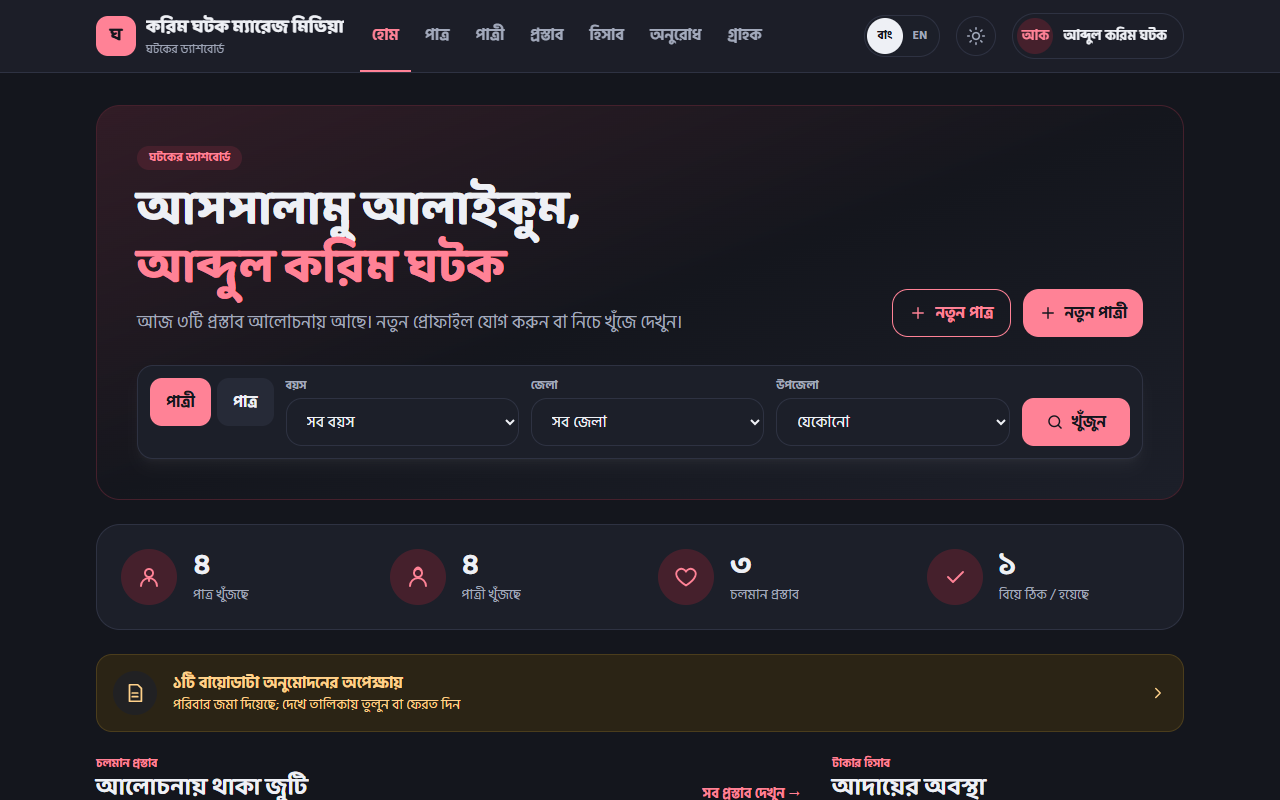
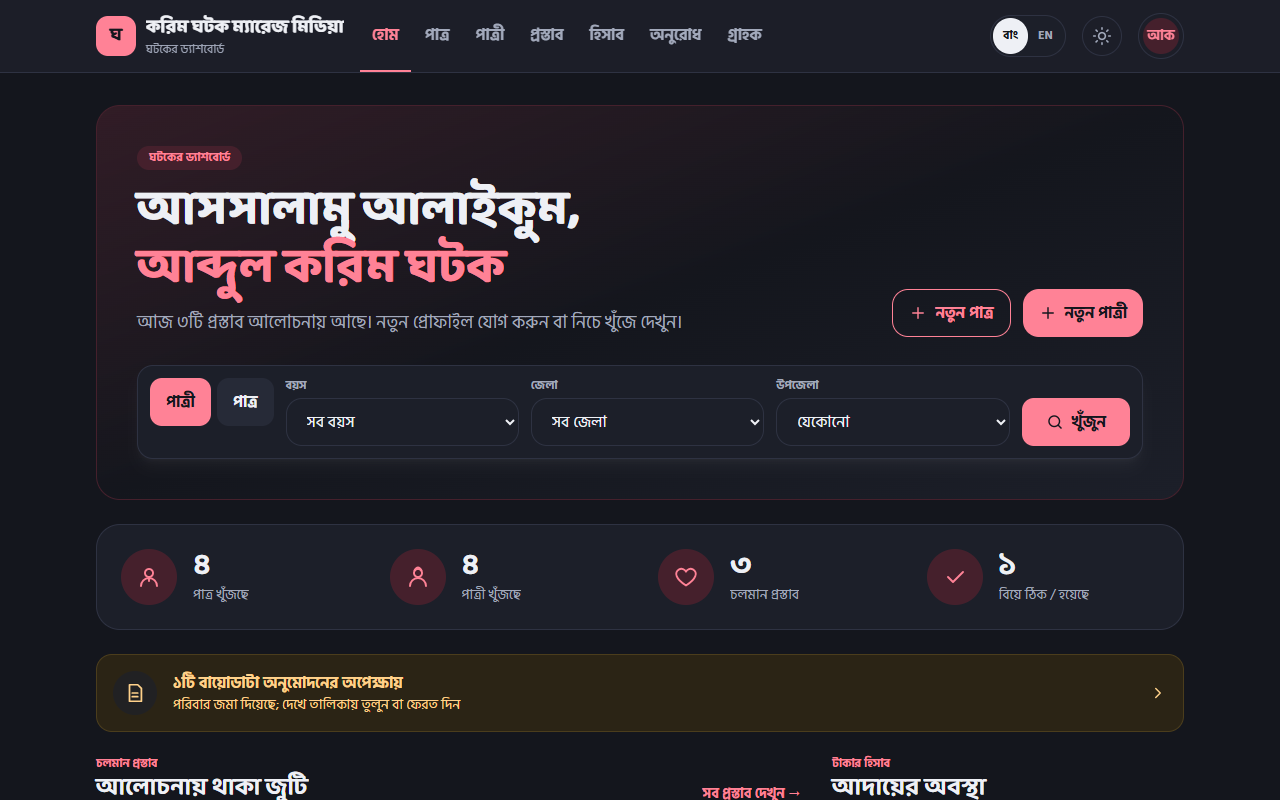
fix: the ghotok's top bar keeps all seven tabs in view
With English labels the tab row overflowed the 72rem bar and "Customers" was clipped. The site name no longer
shrinks away, the tab row scrolls if it ever must, and the ghotok's account pill shows initials only (the name
stays in its label and tooltip); a family's bar, with three tabs, keeps the name. Screenshots refreshed.

Changed region(s): [[0.75, 0.0, 0.9375, 0.0938], [0.6562, 0.0, 0.7188, 0.0625]]

diff --git a/components/nav.tsx b/components/nav.tsx
@@ -103,10 +103,11 @@ export function TopNav({ userName, role, siteName }: { userName: string; role: R
         </nav>
         <LangSwitch className="my-auto shrink-0" />
         <ThemeButton className="my-auto" />
-        <Link href="/settings" aria-current={settingsOn ? "page" : undefined}
-          className={`my-auto flex shrink-0 items-center gap-2.5 rounded-full border py-1 pr-4 pl-1 text-sm font-bold ${settingsOn ? "border-primary bg-primary-soft text-primary" : "border-line hover:bg-sunk"}`}>
+        {/* the ghotok's bar carries seven tabs, so their pill is initials only (the name is in the label); a family's bar has room for the name */}
+        <Link href="/settings" aria-current={settingsOn ? "page" : undefined} aria-label={t("nav.settingsFor", { name: userName })} title={userName}
+          className={`my-auto flex shrink-0 items-center gap-2.5 rounded-full border p-1 text-sm font-bold ${role === "admin" ? "" : "pr-4"} ${settingsOn ? "border-primary bg-primary-soft text-primary" : "border-line hover:bg-sunk"}`}>
           <span aria-hidden className="grid size-9 place-items-center rounded-full bg-primary-soft text-sm text-primary">{initials(userName)}</span>
-          <span className="max-w-36 truncate">{userName}</span>
+          {role === "admin" ? null : <span className="max-w-36 truncate">{userName}</span>}
         </Link>
       </div>
     </header>
